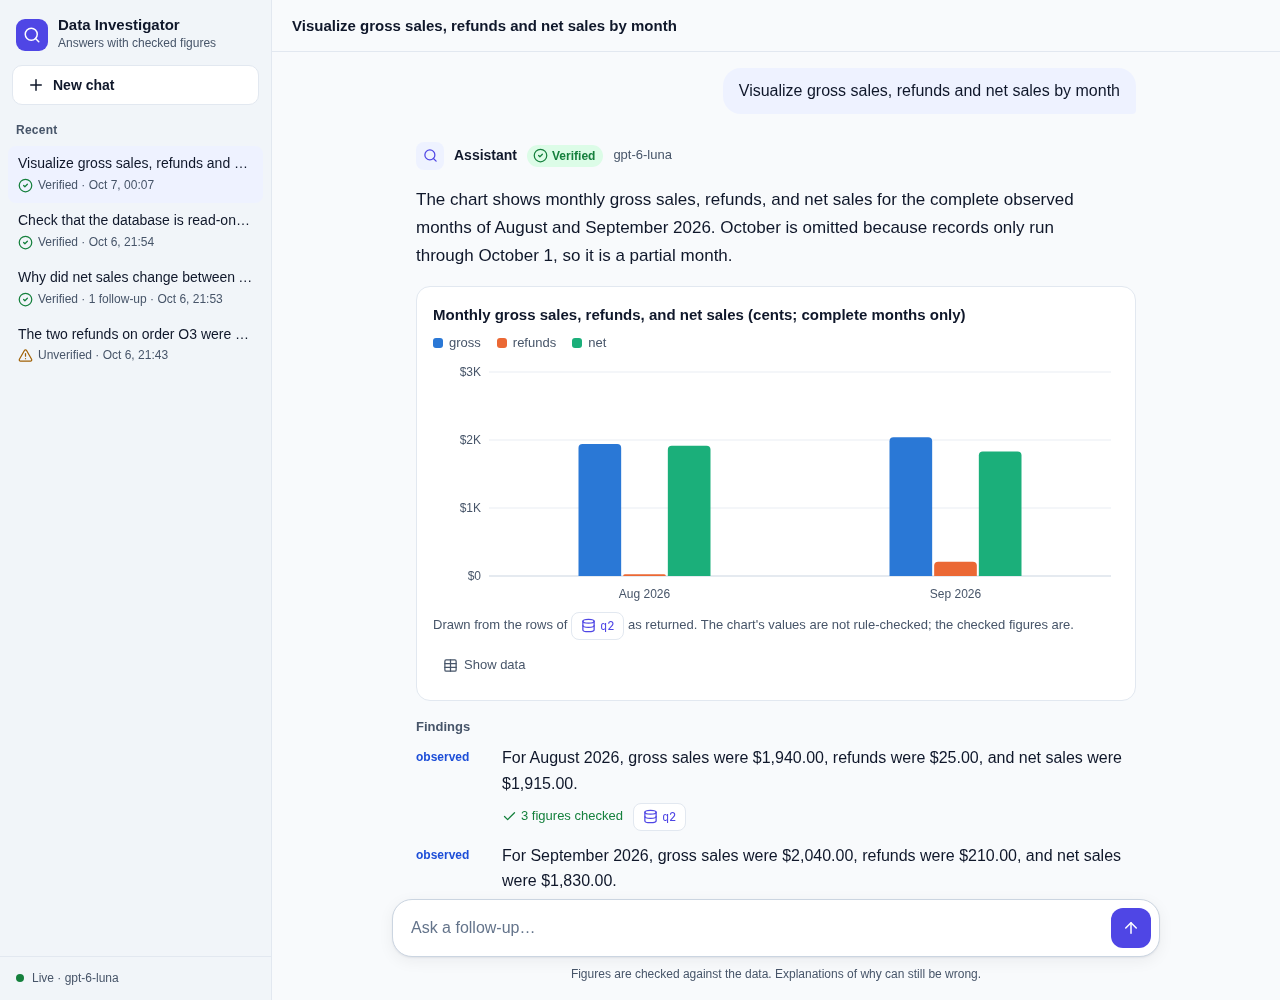
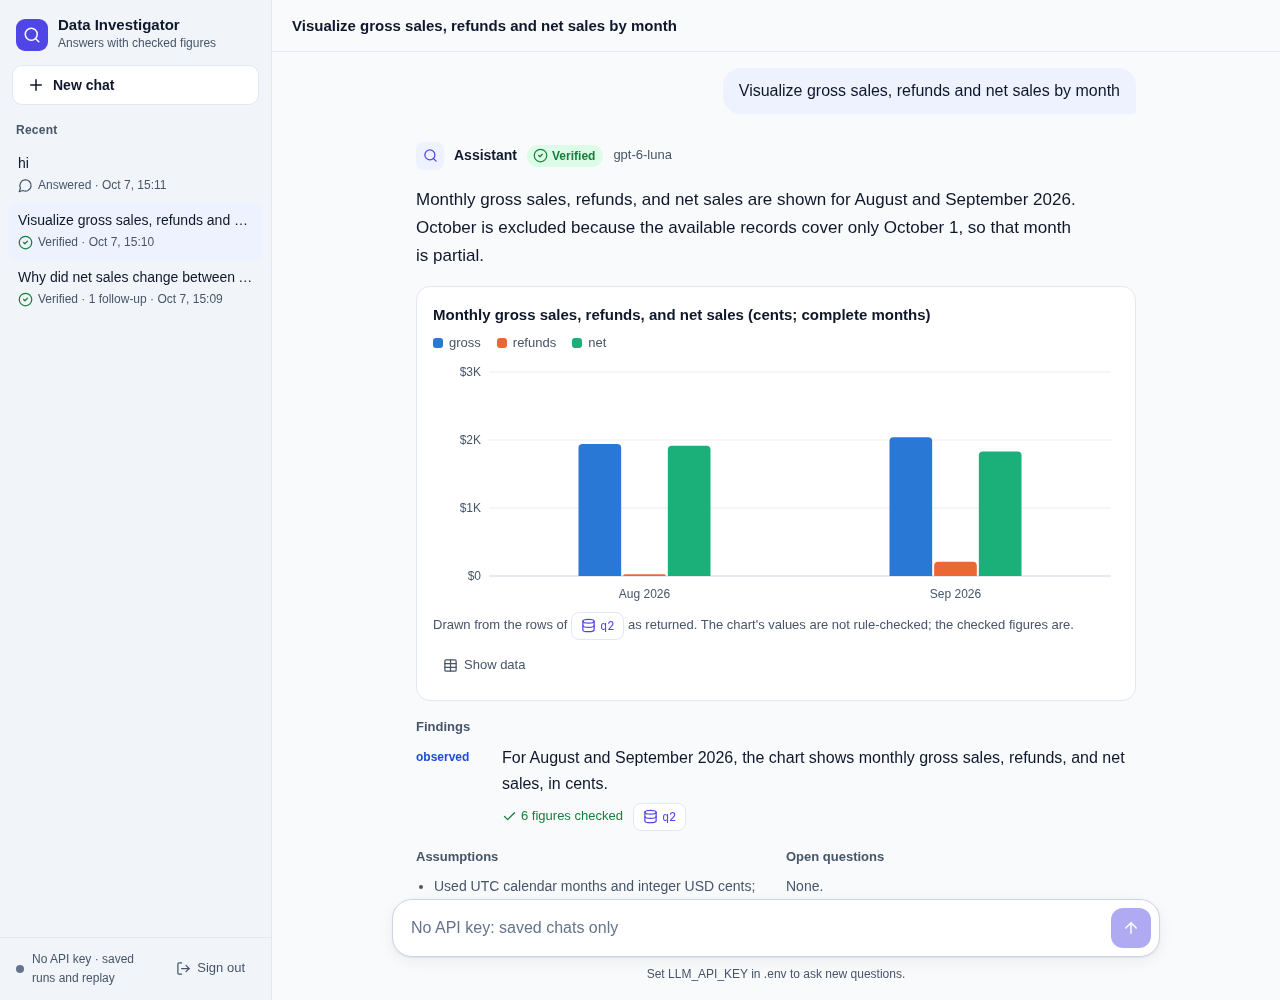
Retake the README screenshot on the new page; keep Sign out on one line

diff --git a/investigator/static/index.html b/investigator/static/index.html
@@ -84,7 +84,7 @@ main { display: flex; flex-direction: column; min-width: 0; min-height: 0; }
 .s-answered { color: var(--idle); background: var(--idle-bg); } .s-blocked { color: var(--warn); background: var(--warn-bg); }
 .keyrow { display: flex; gap: 8px; max-width: 460px; margin: 16px auto 0; }
 .keyin { flex: 1; min-width: 0; min-height: 40px; padding: 0 12px; border-radius: 10px; border: 1px solid var(--border-strong); background: var(--panel); color: var(--text); font: inherit; }
-.mode .signout { margin-left: auto; min-height: 32px; }
+.mode .signout { margin-left: auto; min-height: 32px; flex-shrink: 0; white-space: nowrap; }
 .banner { display: flex; gap: 10px; border-radius: 12px; padding: 12px 14px; font-size: 14px; }
 .banner ul { margin: 6px 0 0; padding-left: 18px; }
 .banner p { margin: 0; }
